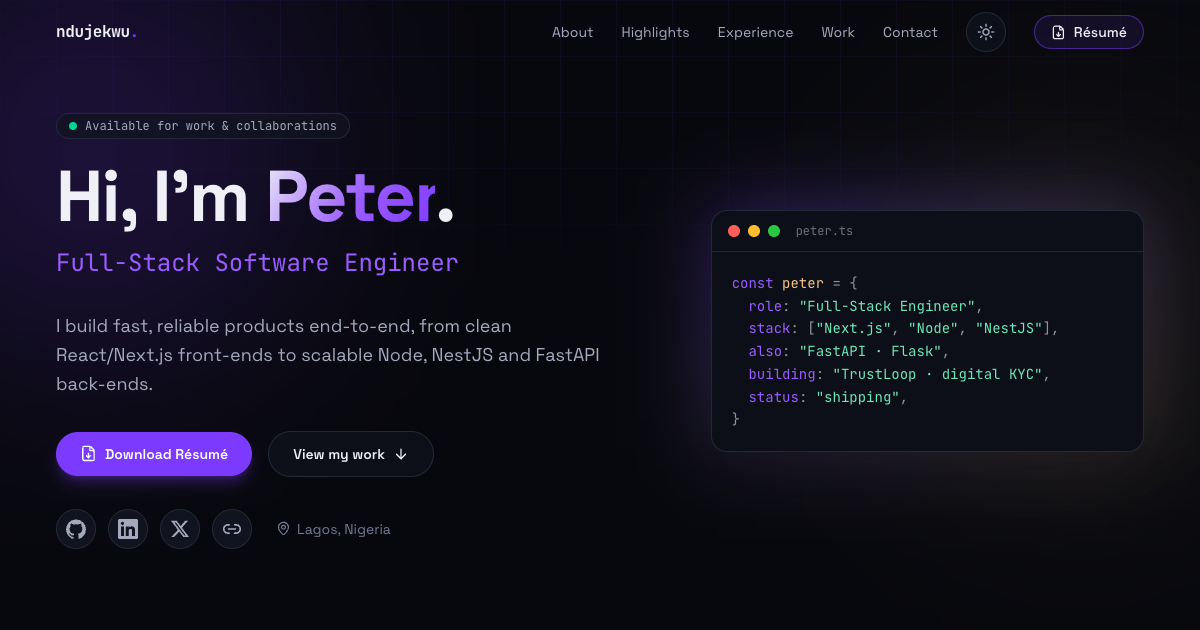
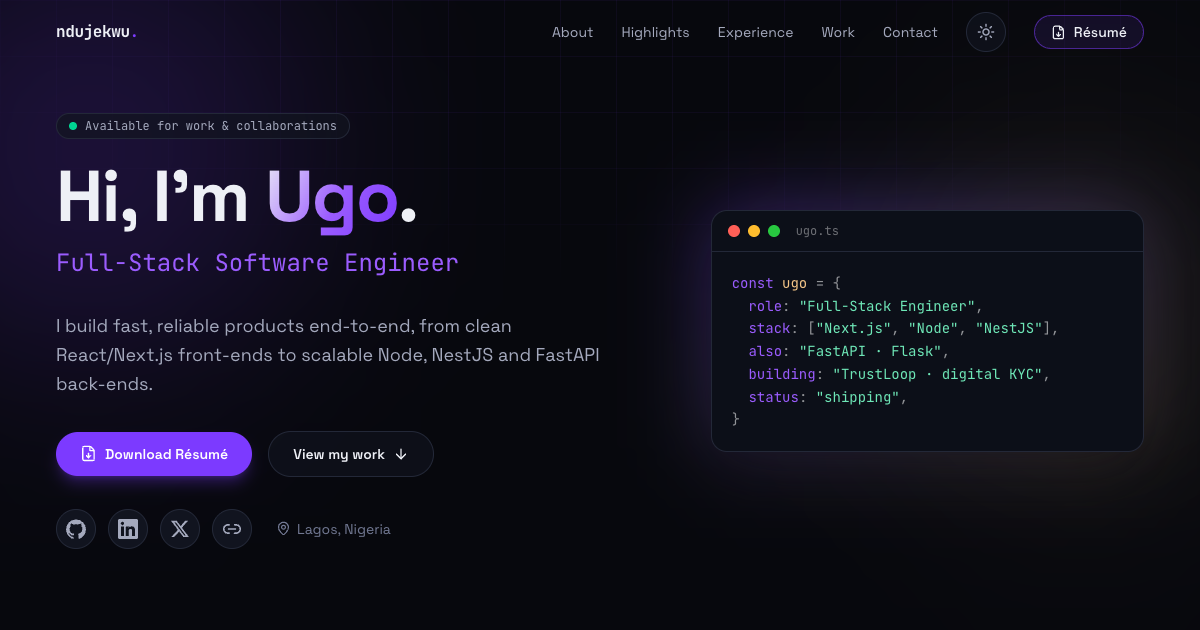
fix: update name references from Peter to Ugo in Hero component

Changed region(s): [[0.2158, 0.2714, 0.4008, 0.3921], [0.6783, 0.3619, 0.7092, 0.3921], [0.6475, 0.4222, 0.6783, 0.4524]]

diff --git a/src/components/Hero.tsx b/src/components/Hero.tsx
@@ -61,12 +61,12 @@ function CodeCard() {
           <span className="h-3 w-3 rounded-full bg-[#ff5f57]" />
           <span className="h-3 w-3 rounded-full bg-[#febc2e]" />
           <span className="h-3 w-3 rounded-full bg-[#28c840]" />
-          <span className="cw-file ml-2 font-mono text-xs">peter.ts</span>
+          <span className="cw-file ml-2 font-mono text-xs">ugo.ts</span>
         </div>
         <pre className="overflow-x-auto p-5 font-mono text-[12.5px] leading-relaxed sm:text-sm">
           <code>
             <span className="cw-key">const</span>{" "}
-            <span className="cw-name">peter</span>{" "}
+            <span className="cw-name">ugo</span>{" "}
             <span className="cw-punc">=</span>{" "}
             <span className="cw-punc">{"{"}</span>
             {"\n"}
@@ -152,7 +152,7 @@ export default function Hero() {
             animate="show"
             className="text-4xl font-bold leading-[1.05] tracking-tight sm:text-6xl lg:text-7xl"
           >
-            Hi, I&apos;m <span className="text-gradient">Peter</span>.
+            Hi, I&apos;m <span className="text-gradient">Ugo</span>.
           </motion.h1>
 
           <motion.div
